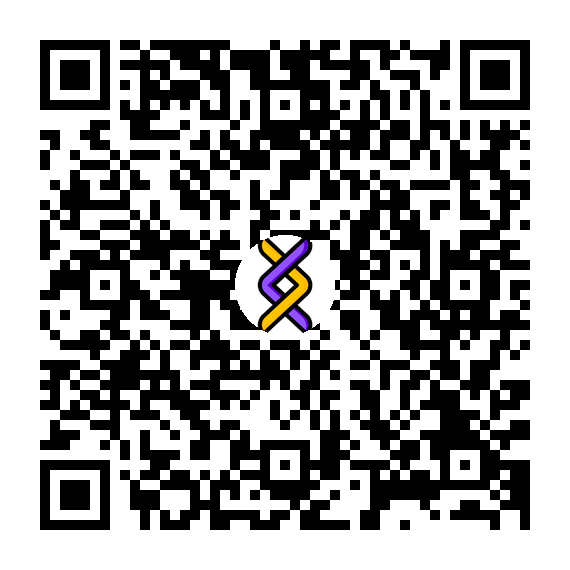
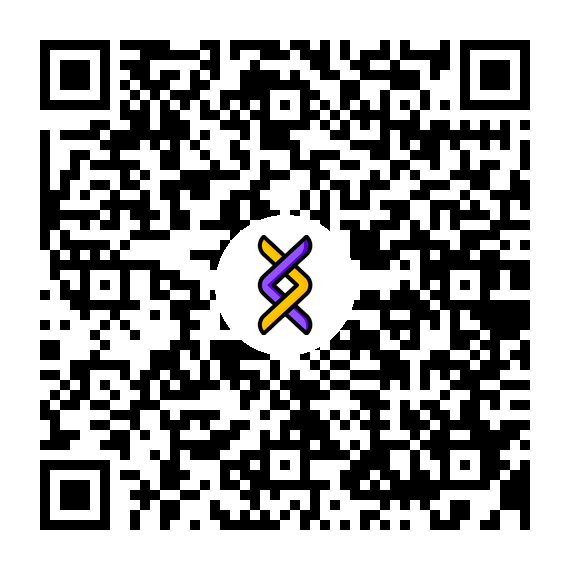
qr code update

Changed region(s): [[0.0596, 0.0596, 0.9544, 0.9544], [0.7456, 0.8351, 0.8947, 0.9544]]

diff --git a/app.html b/app.html
@@ -112,12 +112,11 @@
                     <div class="col-lg-6 col-sm-8">
                         <img src="./images/qrcode/qr.png" style="width: 60%;"></img>
                     </div>
-                    <div class="col-lg-4 col-sm-8" style="margin-top: 10vh; font-size: 1.5rem;">
+                    <div class="col-lg-4 col-sm-8" style="font-size: 1.5rem; display: flex; justify-content: center; align-items: center; flex-direction: column;">
                         Scan this QR code with your phone
-                        <p class="m-0" style="font-size: medium;">
+                        <p style="font-size: medium;">
                             or instead
                         </p>
-                        <br/>
                         <a href="https://drive.google.com/file/d/1CeIrN3rIf8Np9Uz4U3X70kfkGtHy71CN/view?usp=sharing" target="_blank" class="btn btn-primary btn-xl">
                             <i class="fab fa-android"></i> Download APK
                         </a>

diff --git a/images/qrcode/createQR.py b/images/qrcode/createQR.py
@@ -1,7 +1,7 @@
 import qrcode
 from PIL import Image, ImageDraw
 
-data = "https://drive.google.com/file/d/1CeIrN3rIf8Np9Uz4U3X70kfkGtHy71CN/view?usp=sharing"
+data = "https://github.com/Diseasecard/Diseasecard.github.io/raw/main/apk/diseasecard.apk"
 
 qr = qrcode.QRCode(
     version=1,
@@ -18,18 +18,23 @@ img_qr = qr.make_image(fill_color='black', back_color='white').convert('RGBA')
 logo = Image.open('images/qrcode/dna.png')
 
 logo_size = 100
+border_size = 20 
 
-logo_bg = Image.new('RGBA', (logo_size, logo_size), 'white')
+logo_with_border_size = logo_size + 2 * border_size
+logo_with_border = Image.new('RGBA', (logo_with_border_size, logo_with_border_size), 'white')
+
 logo = logo.resize((logo_size, logo_size), Image.LANCZOS)
-logo_bg.paste(logo, (0, 0), logo)
 
-mask = Image.new('L', (logo_size, logo_size), 0)
+logo_pos = (border_size, border_size)
+logo_with_border.paste(logo, logo_pos, logo)
+
+mask = Image.new('L', (logo_with_border_size, logo_with_border_size), 0)
 draw = ImageDraw.Draw(mask)
-draw.ellipse((0, 0, logo_size, logo_size), fill=255)
+draw.ellipse((0, 0, logo_with_border_size, logo_with_border_size), fill=255)
 
-logo_circular = Image.composite(logo_bg, Image.new('RGBA', (logo_size, logo_size)), mask)
+logo_circular = Image.composite(logo_with_border, Image.new('RGBA', (logo_with_border_size, logo_with_border_size)), mask)
 
-pos = ((img_qr.size[0] - logo_size) // 2, (img_qr.size[1] - logo_size) // 2)
+pos = ((img_qr.size[0] - logo_with_border_size) // 2, (img_qr.size[1] - logo_with_border_size) // 2)
 
 img_qr.paste(logo_circular, pos, mask)
 
